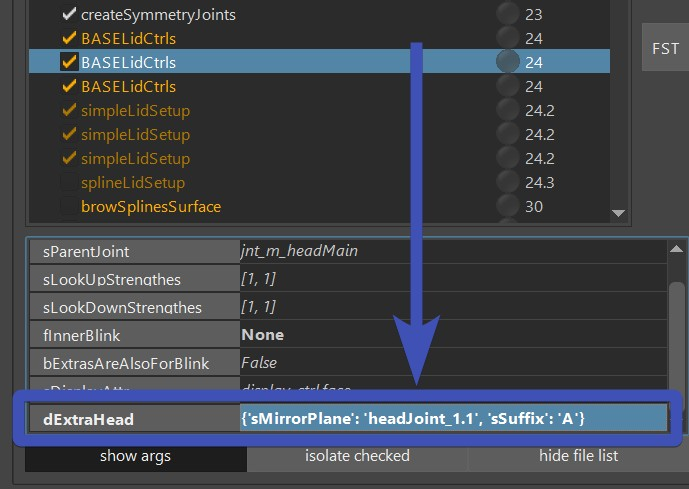
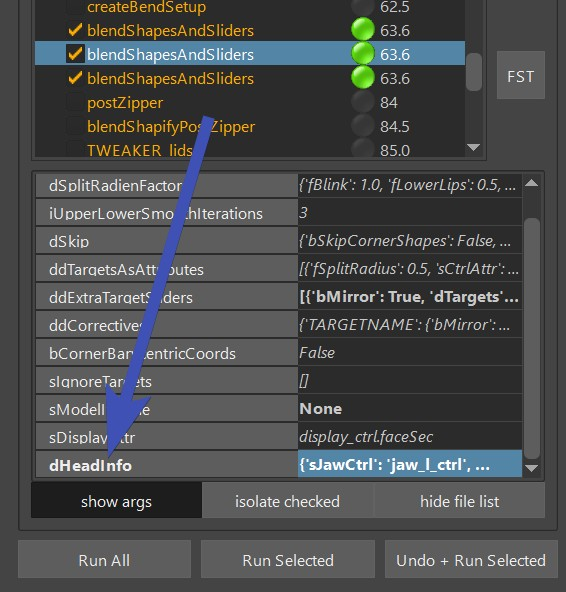
extra heads

diff --git a/docs/face/faceGeneral.md b/docs/face/faceGeneral.md
@@ -294,10 +294,22 @@ so you can mirror them easier.
 
 For the functions in the **facePro_v??**, you can duplicate many of them with right click -> **set function instance count**,
 and set that value to something bigger than 1.  
-And then watch out for attributes called **dExtraHeads** or **sSuffix**, and set them accordingly:  
+And then watch out for attributes called **dHeadInfo** or **sSuffix**, and set them accordingly:  
 ![Alt text](../images/faceGeneral_extraHead.jpg)  
 
 !!! note
     Not all functions are supported at this point. If you have a very complex face rig with joint splines etc, at this
     point it might be easier to build a separate asset, and import it through the *mayaImport* folder in the main asset. 
+
+Also keep an eye out for the **sMirrorPlane** attribute. You sometimes find it in the **dHeadInfo** attribute. If you leave
+it empty, it mirrors along the world symmetry axis.   
+But you can give it a joint and an axis, for example **headJoint_1.4**, which would assume there's a node called *headJoint_1*
+in scene. The **4** after the dot means negative X (0=X, 1=Y, 2=Z, 3=-X, 4=-Y, 5=-Z).
+![Alt text](../images/faceGeneral_mirrorPlane.jpg)  
+!!! note 
+    In the puppet tool ([Puppet - Blueprint Rig Mirror Planes](../puppet/puppetGeneral.md#blueprint-rig-mirror-planes)) that convention is slightly different, instead of the number
+    you would give it the axis name (e.g. **bp_l_head.Z**). This is because the puppet tool doesn't care about positive or negative. 
+
+
+
 
